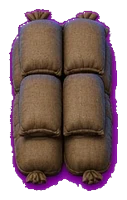
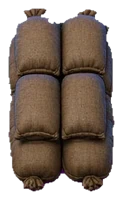
fix(vs): G3 Round 7 sandbag fringe kill + grass soft wash
Stronger magenta/purple despill on sandbag sheet cuts; scale bag walls
to ~0.45 cell; replace grass↔mud square edge strips with soft zone washes.

diff --git a/ambush_vs/scripts/build_g3_assets.py b/ambush_vs/scripts/build_g3_assets.py
@@ -309,8 +309,43 @@ def build_tiles() -> dict:
 
 def chroma_key_magenta_strong(im: Image.Image) -> Image.Image:
 	"""Key compressed JPG magenta + purple fringe (despill). Returns RGBA."""
-	# Slightly looser thresh for JPEG fringing around #FF00FF.
-	return chroma_key_magenta(im, thresh=55.0, soft=48.0)
+	rgba = im.convert("RGBA")
+	arr = np.asarray(rgba).astype(np.float32)
+	rgb = arr[..., :3]
+	r, g, b = rgb[..., 0], rgb[..., 1], rgb[..., 2]
+	dist = np.linalg.norm(rgb - MAGENTA, axis=-1)
+	# JPEG #FF00FF fringes into purple/pink — catch high R+B / low G aggressively.
+	rb = (r + b) * 0.5
+	magentaish = (r > 150) & (b > 150) & (g < 140) & (rb > g * 1.35)
+	purple_fringe = (r > 90) & (b > 110) & (g < 110) & (b > g + 25) & (r > g + 15)
+	dist = np.where(magentaish | purple_fringe, np.minimum(dist, 28.0), dist)
+	thresh, soft = 48.0, 55.0
+	alpha = np.clip((dist - thresh) / soft, 0.0, 1.0)
+	alpha = np.where(dist < thresh * 0.85, 0.0, alpha)
+	# Despill: remove magenta cast on remaining fringe / semi-opaque edge.
+	spill = np.clip(1.0 - (dist / (thresh + soft * 1.6)), 0.0, 1.0)
+	spill = np.maximum(spill, np.clip(purple_fringe.astype(np.float32) * 0.85, 0.0, 1.0))
+	# Pull R/B down toward G (burlap-safe) rather than flat grey.
+	target = np.stack(
+		[
+			np.minimum(r, g * 1.08 + 18.0),
+			g,
+			np.minimum(b, g * 1.05 + 22.0),
+		],
+		axis=-1,
+	)
+	rgb = rgb * (1.0 - 0.88 * spill[..., None]) + target * (0.88 * spill[..., None])
+	# Erode thin keyed fringe so phone-size edges don't read as purple outlines.
+	a_img = Image.fromarray((np.clip(alpha, 0, 1) * 255).astype(np.uint8), "L")
+	a_img = a_img.filter(ImageFilter.MinFilter(3))
+	a_img = a_img.filter(ImageFilter.GaussianBlur(0.6))
+	alpha = np.asarray(a_img).astype(np.float32) / 255.0
+	# Hard-kill residual near-magenta after despill.
+	r2, g2, b2 = rgb[..., 0], rgb[..., 1], rgb[..., 2]
+	still_mag = (r2 > 140) & (b2 > 140) & (g2 < r2 * 0.78) & (g2 < b2 * 0.78)
+	alpha = np.where(still_mag, 0.0, alpha)
+	out = np.dstack([np.clip(rgb, 0, 255), alpha * 255.0]).astype(np.uint8)
+	return Image.fromarray(out, "RGBA")
 
 
 def cut_sandbag_sheet() -> dict:
@@ -335,7 +370,7 @@ def cut_sandbag_sheet() -> dict:
 	meta: dict = {}
 	for name, x0, y0, x1, y1 in boxes:
 		cell = keyed.crop((x0, y0, x1, y1))
-		cell = bbox_content(cell, pad=6)
+		cell = bbox_content(cell, pad=4)
 		# Preserve aspect on transparent canvas (do not stretch bags).
 		# Straights stay wide; piles stay roughly square.
 		pw, ph = cell.size
@@ -348,12 +383,19 @@ def cut_sandbag_sheet() -> dict:
 		cell = cell.resize((nw, nh), Image.Resampling.LANCZOS)
 		canvas = Image.new("RGBA", (nw + 8, nh + 8), (0, 0, 0, 0))
 		canvas.paste(cell, (4, 4), cell)
-		# Cool night grade: slight blue rim / darker burlap to match moonlight scene.
+		# Cool night grade: darker burlap + cool rim; no magenta left in edge.
 		arr = np.asarray(canvas).astype(np.float32)
-		rgb, a = arr[..., :3], arr[..., 3:4] / 255.0
-		rgb = rgb * np.array([0.92, 0.94, 1.02], dtype=np.float32)
-		rgb = np.clip(rgb * 0.90, 0, 255)
-		out = np.dstack([rgb, arr[..., 3]]).astype(np.uint8)
+		rgb, aa = arr[..., :3], arr[..., 3]
+		# Final edge despill on resized fringe.
+		r, g, b = rgb[..., 0], rgb[..., 1], rgb[..., 2]
+		edge = (aa > 8) & (aa < 230)
+		purp = edge & (r > 95) & (b > 105) & (g < 115) & ((r + b) * 0.5 > g + 28)
+		rgb[..., 0] = np.where(purp, np.minimum(r, g * 1.05 + 12), r)
+		rgb[..., 2] = np.where(purp, np.minimum(b, g * 1.02 + 16), b)
+		aa = np.where(purp & (aa < 120), 0.0, aa)
+		rgb = rgb * np.array([0.90, 0.93, 1.04], dtype=np.float32)
+		rgb = np.clip(rgb * 0.88, 0, 255)
+		out = np.dstack([rgb, aa]).astype(np.uint8)
 		prop = Image.fromarray(out, "RGBA")
 		save_webp(prop, f"props/{name}.webp", quality=88)
 		meta[name] = f"props/{name}.webp"

diff --git a/.cursor/docs/VS_G3_ART_20261017.md b/.cursor/docs/VS_G3_ART_20261017.md
@@ -80,10 +80,10 @@ chatgpt:unavailable（Cloud Agent；无网页 ChatGPT 桥）
 
 | 项 | 结果 |
 | --- | --- |
-| Tip | `6057e4c` on `vs/g3` (Round 6) |
-| W2 | 61 pass / 0 fail |
-| W3 | 26 pass / 0 fail（含 G3 路径；golden 未改） |
-| 截图自检 | wait：外边=暗地+围墙；屋面≈3 栋（barn / 北台 / 东台）；非屋面海；artifact `g3_greybox_*.png` + `g3_shots_contact.png` vs `yard_map_concept.jpg` |
+| Tip | Round 7 polish pending SHA on `vs/g3` |
+| W2 | pending re-run |
+| W3 | pending re-run |
+| 截图自检 | Round 7：沙袋=麻袋精灵表（非黄木条）；草泥软洗；artifact `g3_greybox_*.png` + `g3_shots_contact.png` |
 | Pages | push `vs/g3` → deploy-greybox-pages；URL https://hailinsu-create.github.io/ambush-loop/greybox/ |
 | PR | #57 → `vs/g2`（不合并） |
 
